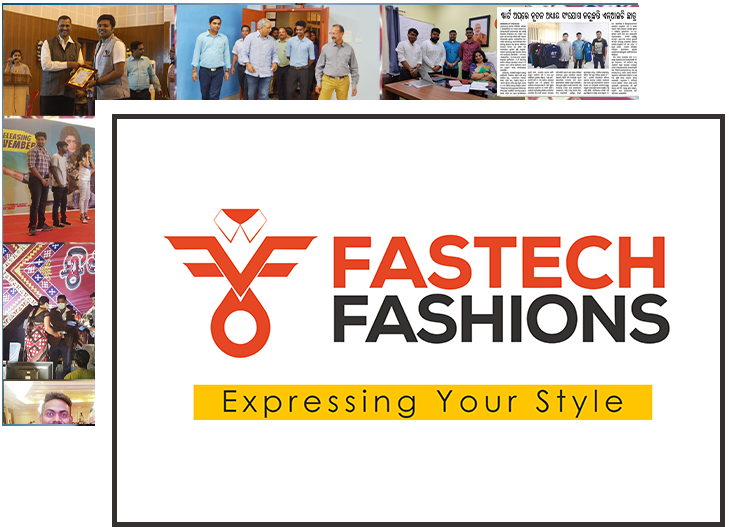
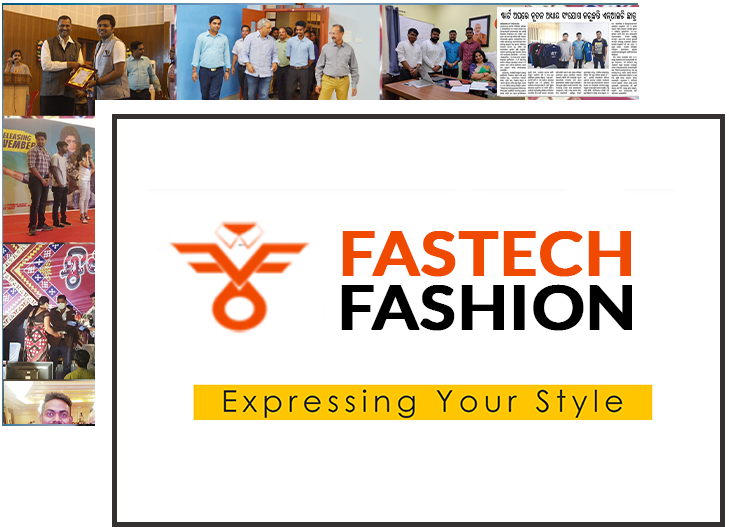
Fastech Fashion brand name change

Changed region(s): [[0.4527, 0.425, 0.9355, 0.6679], [0.2112, 0.3947, 0.4225, 0.6983]]

diff --git a/index.html b/index.html
@@ -127,7 +127,7 @@
     >
       <header class="text-center text-light">
         <h4>Welcome to</h4>
-        <h1>FASTECH FASHIONS PVT. LTD.
+        <h1>FASTECH FASHION PVT. LTD.
         </h1>
         <p>One stop solution for all your clothing needs.
         </p>
@@ -146,7 +146,7 @@
             <div class="content">
               <h2>About Us</h2>
               <p>
-                 Welcome to Fastech Fashions, your savior from plain old boring clothing! Here, you’ll find the trendiest, goofiest and the best quality clothing, which will surely make you stand out in crowd. While clothing was invented thousand of years ago (after our ancestors were done staying naked), Fastech fashions Private Limited was established in the year 2017, and ever since has been known for revolutionizing and clothing industry.
+                 Welcome to FASTECH FASHION, your savior from plain old boring clothing! Here, you’ll find the trendiest, goofiest and the best quality clothing, which will surely make you stand out in crowd. While clothing was invented thousand of years ago (after our ancestors were done staying naked), FASTECH FASHION Private Limited was established in the year 2017, and ever since has been known for revolutionizing and clothing industry.
 
               </p>
               <p>
@@ -833,7 +833,7 @@
               <h5>ACC Cement</h5>
               <p>
                 “Every year, we make custom-designed T-shirts that we give away to key customers. 
-                The experience with Fastech Fashions has been great, I’d highly recommend them to anyone.”
+                The experience with FASTECH FASHION has been great, I’d highly recommend them to anyone.”
               </p>
               <div class="ratings">
                 <img
@@ -874,7 +874,7 @@
               <p>
                 
 
-“I ordered tshirts and uniforms for IndianOil and it was really good! The quality was just what I wanted. I will definitely recommend Fastech Fashions to all my friends!”
+“I ordered tshirts and uniforms for IndianOil and it was really good! The quality was just what I wanted. I will definitely recommend FASTECH FASHION to all my friends!”
               </p>
               <div class="ratings">
                 <img
@@ -913,7 +913,7 @@
               <h3>Ashutosh Mohanty</h3>
               <h5>XIMB</h5>
               <p>
-                “Fastech Fashions offer a wide range of fashion and customizable products. Initially I was a bit worried about procuring products from them as they were new, but it wasn’t a problem at all. I love using their products. Kudos to their service.” 
+                “FASTECH FASHION offer a wide range of fashion and customizable products. Initially I was a bit worried about procuring products from them as they were new, but it wasn’t a problem at all. I love using their products. Kudos to their service.” 
               </p>
               <div class="ratings">
                 <img
